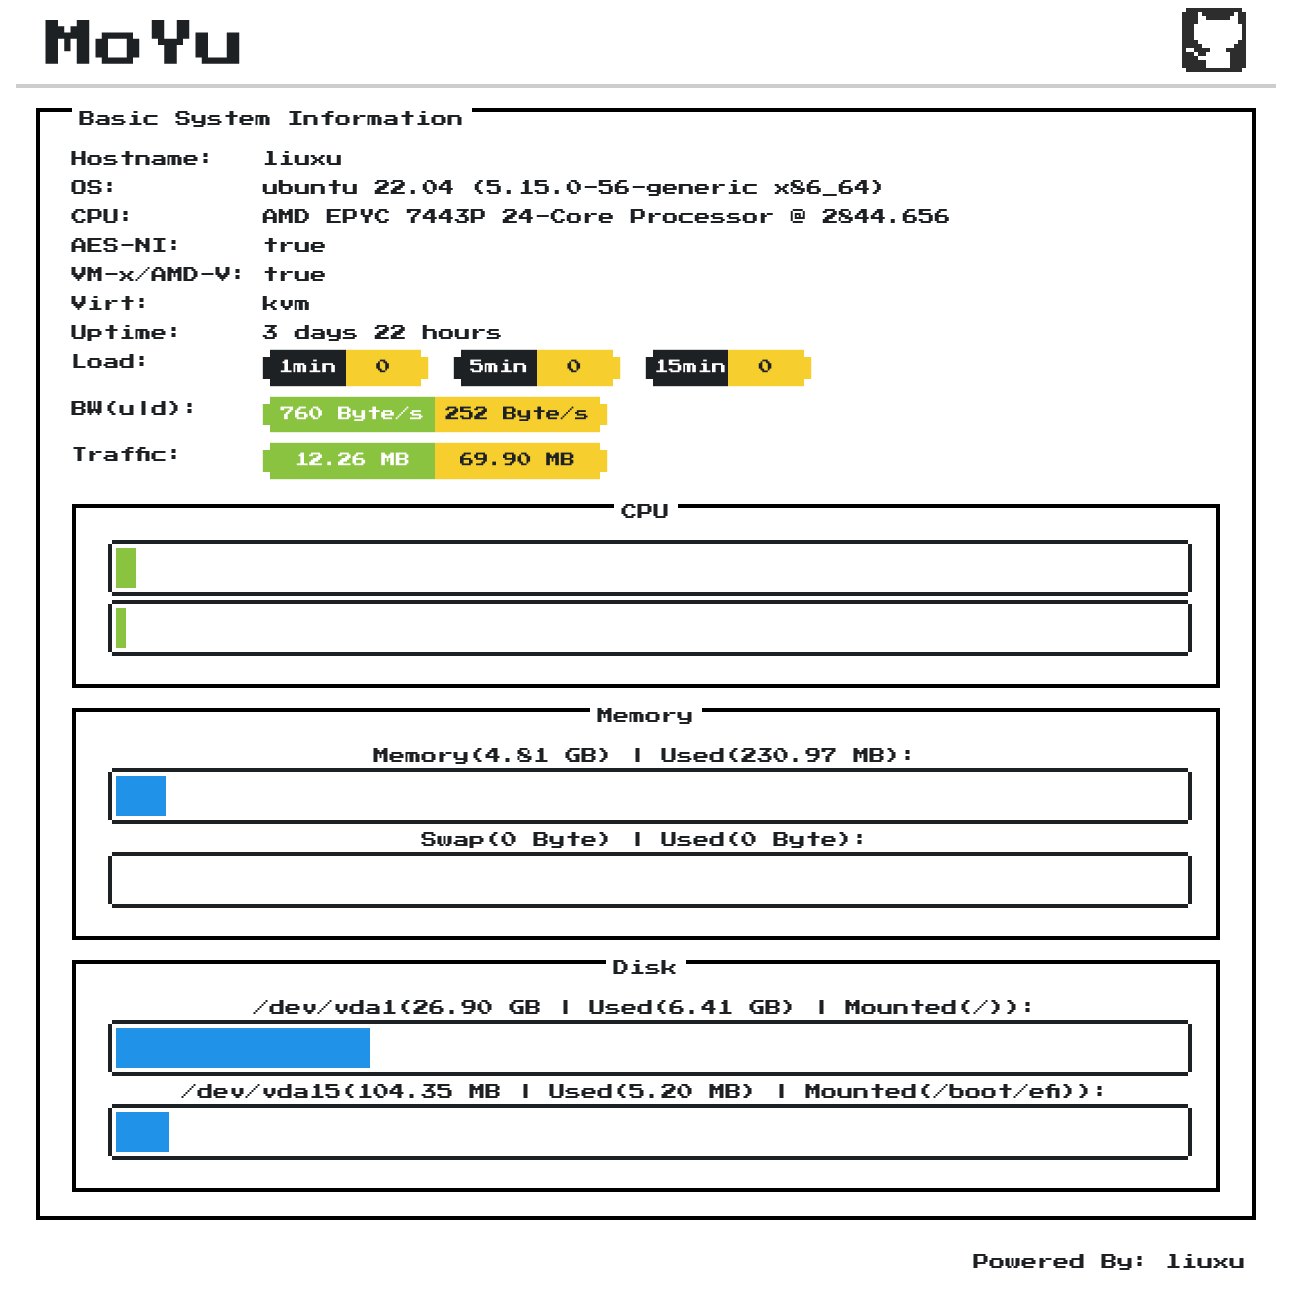
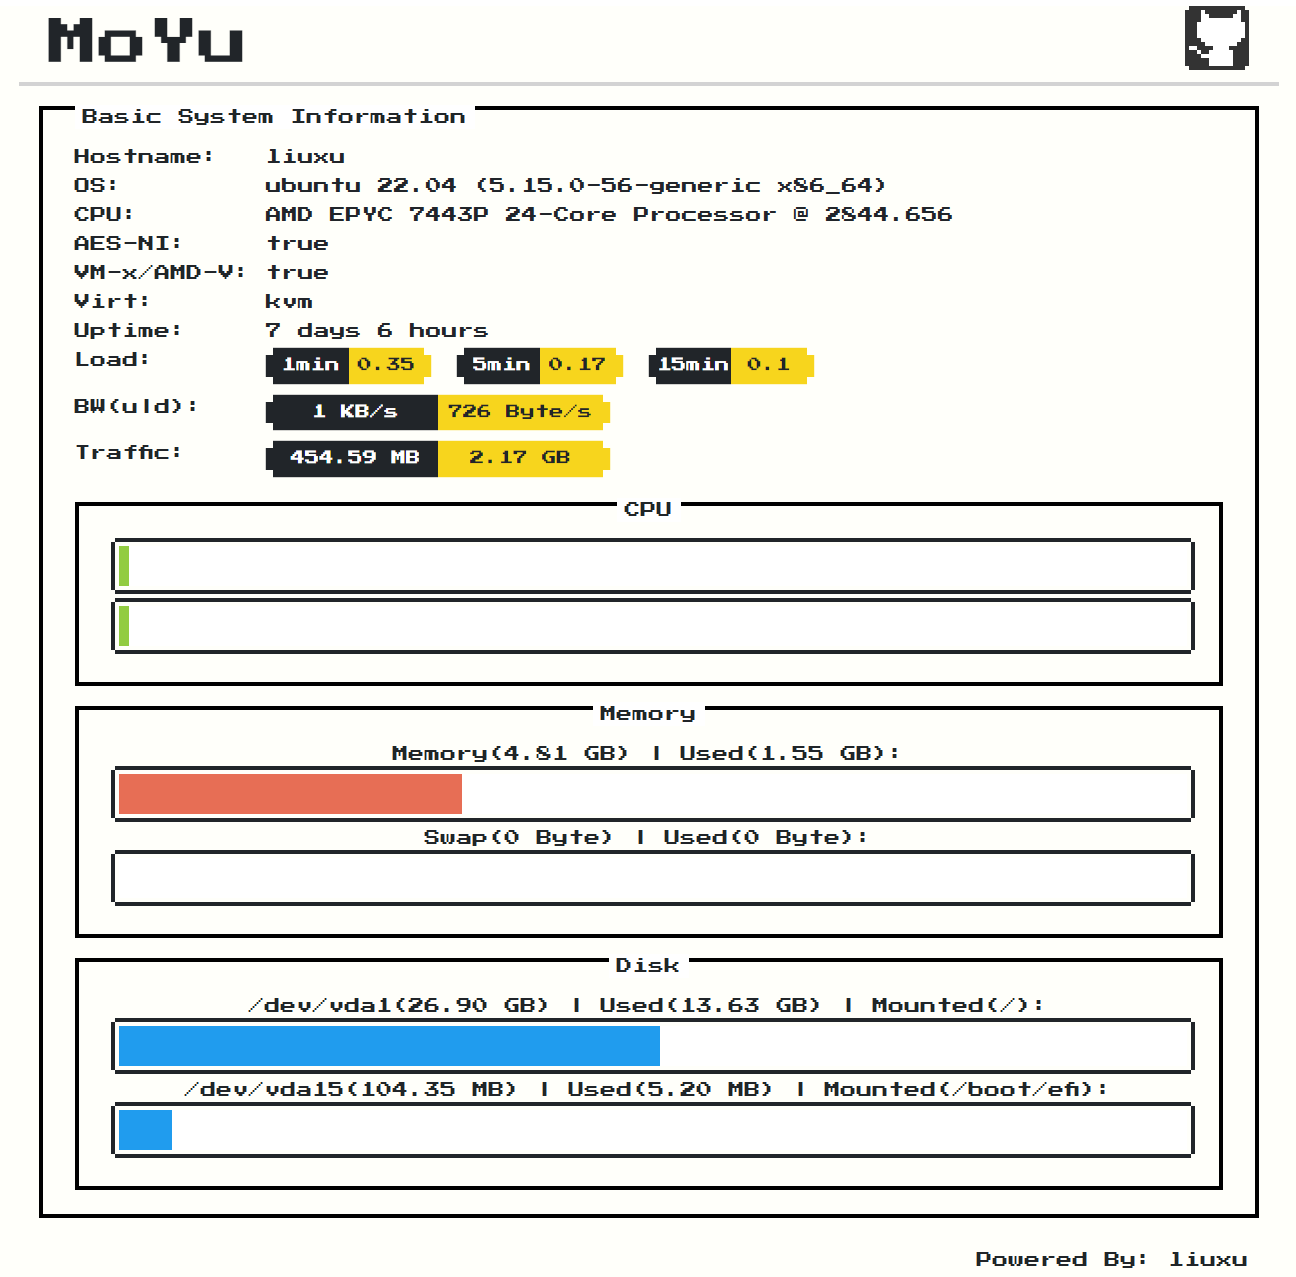
style(color): 更改组件配色

Changed region(s): [[0.0309, 0.0, 0.959, 1.0]]

diff --git a/frontend/src/components/Host.vue b/frontend/src/components/Host.vue
@@ -53,7 +53,7 @@
             <el-col :xs="7" :sm="7" :md="5" :lg="4" :xl="4"><span>BW(u|d):</span></el-col>
             <el-col :xs="9" :sm="10" :md="9" :lg="8" :xl="8" v-for="ifce in info.ifces" :key="ifce.name">
                 <div class="nes-badge is-splited net-badge">
-                    <span class="is-success">{{ curNetSend(ifce.send_byte) | humanByte }}/s</span>
+                    <span class="is-dark">{{ curNetSend(ifce.send_byte) | humanByte }}/s</span>
                     <span class="is-warning">{{ curNetRecv(ifce.recv_byte) | humanByte  }}/s</span>
                 </div>
             </el-col>
@@ -62,7 +62,7 @@
             <el-col :xs="7" :sm="7" :md="5" :lg="4" :xl="4"><span>Traffic:</span></el-col>
             <el-col :xs="9" :sm="10" :md="9" :lg="8" :xl="8" v-for="ifce in info.ifces" :key="ifce.name">
                 <div class="nes-badge is-splited net-badge">
-                    <span class="is-success">{{ ifce.send_byte | humanByte }}</span>
+                    <span class="is-dark">{{ ifce.send_byte | humanByte }}</span>
                     <span class="is-warning">{{ ifce.recv_byte | humanByte  }}</span>
                 </div>
             </el-col>

diff --git a/frontend/src/components/Mem.vue b/frontend/src/components/Mem.vue
@@ -5,7 +5,7 @@
                 <span>Memory({{ info.memory | humanByte }}) | Used({{ usedMem | humanByte }}):</span>
             </el-col>
             <el-col>
-                <progress class="nes-progress is-primary" :value="status.memory_percent" max="100"></progress>
+                <progress class="nes-progress is-error" :value="status.memory_percent" max="100"></progress>
             </el-col>
         </el-row>
         <el-row>
@@ -13,7 +13,7 @@
                 <span>Swap({{ info.swap | humanByte }}) | Used({{ usedSwap | humanByte }}):</span>
             </el-col>
             <el-col>
-                <progress class="nes-progress is-primary" :value="status.swap_percent" max="100"></progress>
+                <progress class="nes-progress is-error" :value="status.swap_percent" max="100"></progress>
             </el-col>
         </el-row>
     </div>
